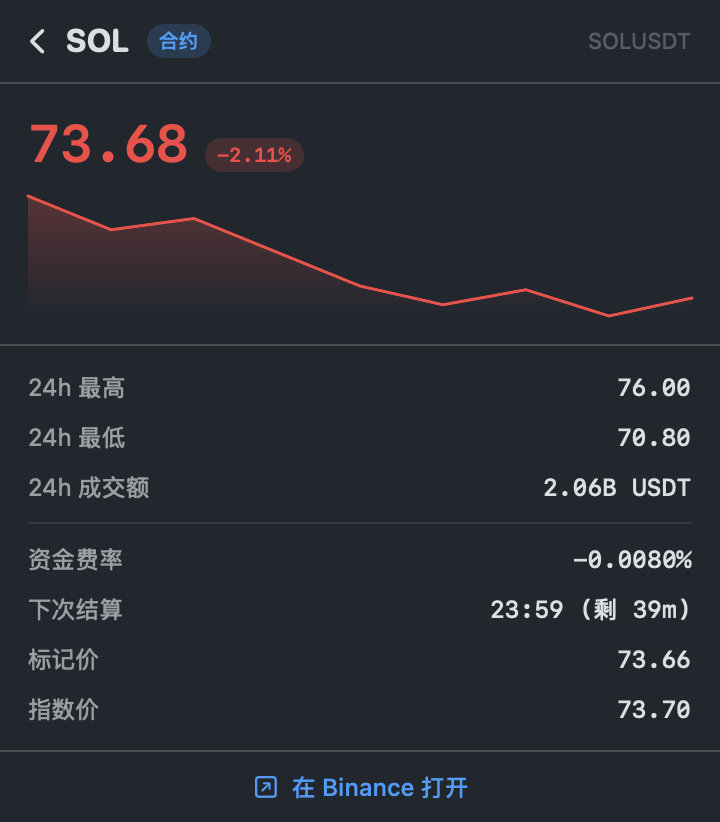
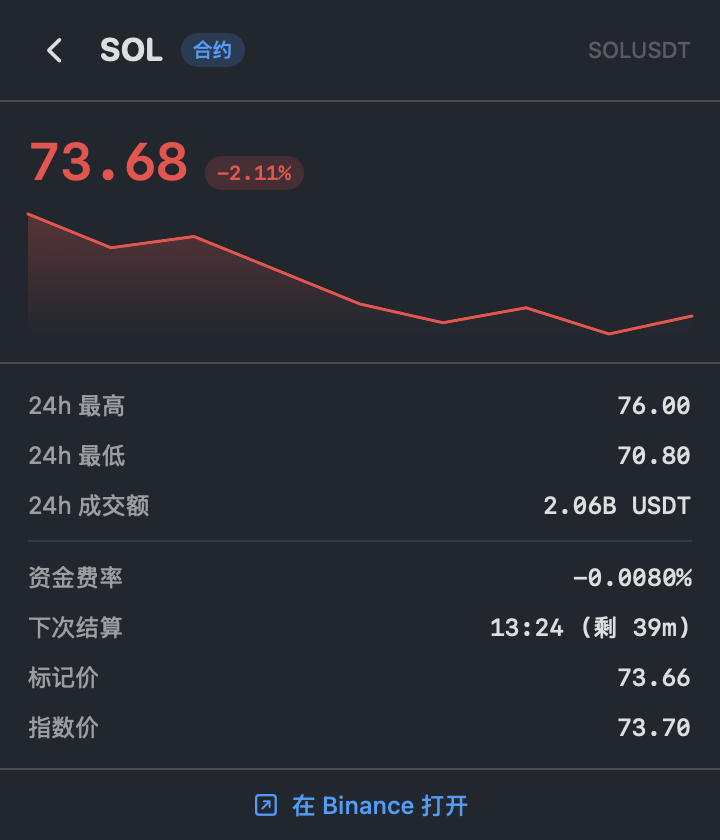
style: 涨跌色换 slum-trader 配色,按钮加 hover/点击区,底栏对齐搜索区,修复暗色 pin
- 涨跌色改用 slum-trader trading-up/down(emerald 绿 + 校准红)
- 暗色未置顶 pin 改动态 tertiaryLabelColor(原 secondaryLabelColor.withAlpha 会定格成静态色发黑)
- 新增 IconButtonStyle:返回/底栏按钮加大点击区 + 悬停高亮 + 按压反馈
- 顶部搜索区与底栏同高(44)
- 刷新点击转一圈作反馈

diff --git a/Sources/CoinBar/Theme.swift b/Sources/CoinBar/Theme.swift
@@ -24,8 +24,8 @@ struct Skin: Equatable {
     /// A. GitHub Light:纯白底 + GitHub 配色。浅色模式用它。
     static let lightNative = Skin(
         id: "light", displayName: "GitHub 浅色", dark: false,
-        up: Color(hex: 0x1A7F37),
-        down: Color(hex: 0xCF222E),
+        up: Color(hex: 0x1B9834),    // slum-trader trading-up  浅 132 70% 35%
+        down: Color(hex: 0xDF2920),  // slum-trader trading-down 浅 3 75% 50%
         accent: Color(hex: 0x0969DA),
         bg: AnyShapeStyle(Color.white),
         rowHover: Color.black.opacity(0.05),
@@ -44,8 +44,8 @@ struct Skin: Equatable {
     /// C. GitHub Dark Dimmed:柔和深色(#22272E)+ GitHub 配色。深色模式用它。
     static let binance = Skin(
         id: "binance", displayName: "GitHub Dimmed", dark: true,
-        up: Color(hex: 0x57AB5A),
-        down: Color(hex: 0xE5534B),
+        up: Color(hex: 0x53C66A),    // slum-trader trading-up  深 132 50% 55%
+        down: Color(hex: 0xE3564F),  // slum-trader trading-down 深 3 73% 60%
         accent: Color(hex: 0x539BF5),
         bg: AnyShapeStyle(Color(hex: 0x22272E)),
         rowHover: Color.white.opacity(0.06),
@@ -69,5 +69,26 @@ extension EnvironmentValues {
     var skin: Skin {
         get { self[SkinKey.self] }
         set { self[SkinKey.self] = newValue }
+    }
+}
+
+/// 图标按钮:更大的可点区 + 悬停高亮 + 按压反馈。用于返回键、底栏刷新/设置/退出等。
+struct IconButtonStyle: ButtonStyle {
+    var size: CGFloat = 28
+    func makeBody(configuration: Configuration) -> some View { IconButtonBody(configuration: configuration, size: size) }
+
+    private struct IconButtonBody: View {
+        let configuration: ButtonStyle.Configuration
+        let size: CGFloat
+        @Environment(\.skin) private var skin
+        @State private var hover = false
+        var body: some View {
+            configuration.label
+                .frame(width: size, height: size)
+                .background(RoundedRectangle(cornerRadius: 6).fill(hover ? skin.rowHover : .clear))
+                .contentShape(RoundedRectangle(cornerRadius: 6))
+                .opacity(configuration.isPressed ? 0.45 : 1)
+                .onHover { hover = $0 }
+        }
     }
 }

diff --git a/Sources/CoinBar/PopoverView.swift b/Sources/CoinBar/PopoverView.swift
@@ -8,6 +8,7 @@ struct PopoverView: View {
     @FocusState private var searchFocused: Bool
     @State private var showSettings = false
     @State private var detailSym: String?
+    @State private var refreshSpin = 0.0
     var preview: Bool = false   // 截图模式:用静态控件替代 TextField,便于离屏渲染
 
     var body: some View {
@@ -53,7 +54,7 @@ struct PopoverView: View {
             }
         }
         .padding(.horizontal, 14)
-        .padding(.vertical, 11)
+        .frame(height: 44)   // 与底栏同高
     }
 
     // MARK: 列表
@@ -130,20 +131,23 @@ struct PopoverView: View {
                 .opacity(model.lastUpdated == nil ? 0 : 1)
             Text(updatedText).font(.system(size: 11)).foregroundStyle(.secondary)
             Spacer()
-            Button { Task { await model.refresh() } } label: {
-                Image(systemName: "arrow.clockwise")
-            }.buttonStyle(.plain).help("立即刷新")
+            Button {
+                withAnimation(.easeInOut(duration: 0.6)) { refreshSpin += 360 }   // 点击转一圈作反馈
+                Task { await model.refresh() }
+            } label: {
+                Image(systemName: "arrow.clockwise").rotationEffect(.degrees(refreshSpin))
+            }.buttonStyle(IconButtonStyle()).help("立即刷新")
             Button { showSettings = true } label: {
                 Image(systemName: "gearshape")
-            }.buttonStyle(.plain).help("设置")
+            }.buttonStyle(IconButtonStyle()).help("设置")
             Button { NSApp.terminate(nil) } label: {
                 Image(systemName: "power")
-            }.buttonStyle(.plain).help("退出 CoinBar")
+            }.buttonStyle(IconButtonStyle()).help("退出 CoinBar")
         }
         .font(.system(size: 12))
         .foregroundStyle(.secondary)
         .padding(.horizontal, 14)
-        .padding(.vertical, 9)
+        .frame(height: 44)   // 与顶部搜索区同高
     }
 
     private var updatedText: String {

diff --git a/Sources/CoinBar/WatchTable.swift b/Sources/CoinBar/WatchTable.swift
@@ -245,7 +245,9 @@ final class WatchCellView: NSTableCellView {
         self.onPin = onPin; self.onRemove = onRemove
 
         pinButton.image = Self.symbol(d.pinned ? "pin.fill" : "pin", size: 12)
-        pinButton.contentTintColor = d.pinned ? c.accent : NSColor.secondaryLabelColor.withAlphaComponent(0.45)
+        // 未置顶用动态的 tertiaryLabelColor —— 自动按外观解析成浅/深灰;
+        // 不能用 secondaryLabelColor.withAlphaComponent(),那会按当时外观定格成静态色,暗色下发黑。
+        pinButton.contentTintColor = d.pinned ? c.accent : .tertiaryLabelColor
         pinButton.toolTip = d.pinned ? "已固定到菜单栏" : "固定到菜单栏"
         removeButton.image = Self.symbol("minus.circle.fill", size: 12)
         removeButton.contentTintColor = c.down.withAlphaComponent(0.75)

diff --git a/Sources/CoinBar/DetailView.swift b/Sources/CoinBar/DetailView.swift
@@ -72,7 +72,7 @@ struct DetailView: View {
         HStack(spacing: 8) {
             Button { dismiss() } label: {
                 Image(systemName: "chevron.left").font(.system(size: 14, weight: .semibold))
-            }.buttonStyle(.plain)
+            }.buttonStyle(IconButtonStyle()).help("返回")
             Text(base).font(Theme.rounded(16, weight: .bold))
             Text(isFut ? "合约" : "现货")
                 .font(.system(size: 10, weight: .semibold))

diff --git a/Sources/CoinBar/SettingsView.swift b/Sources/CoinBar/SettingsView.swift
@@ -45,7 +45,7 @@ struct SettingsView: View {
         HStack(spacing: 8) {
             Button { show = false } label: {
                 Image(systemName: "chevron.left").font(.system(size: 14, weight: .semibold))
-            }.buttonStyle(.plain)
+            }.buttonStyle(IconButtonStyle()).help("返回")
             Text("设置").font(Theme.rounded(15, weight: .semibold))
             Spacer()
         }